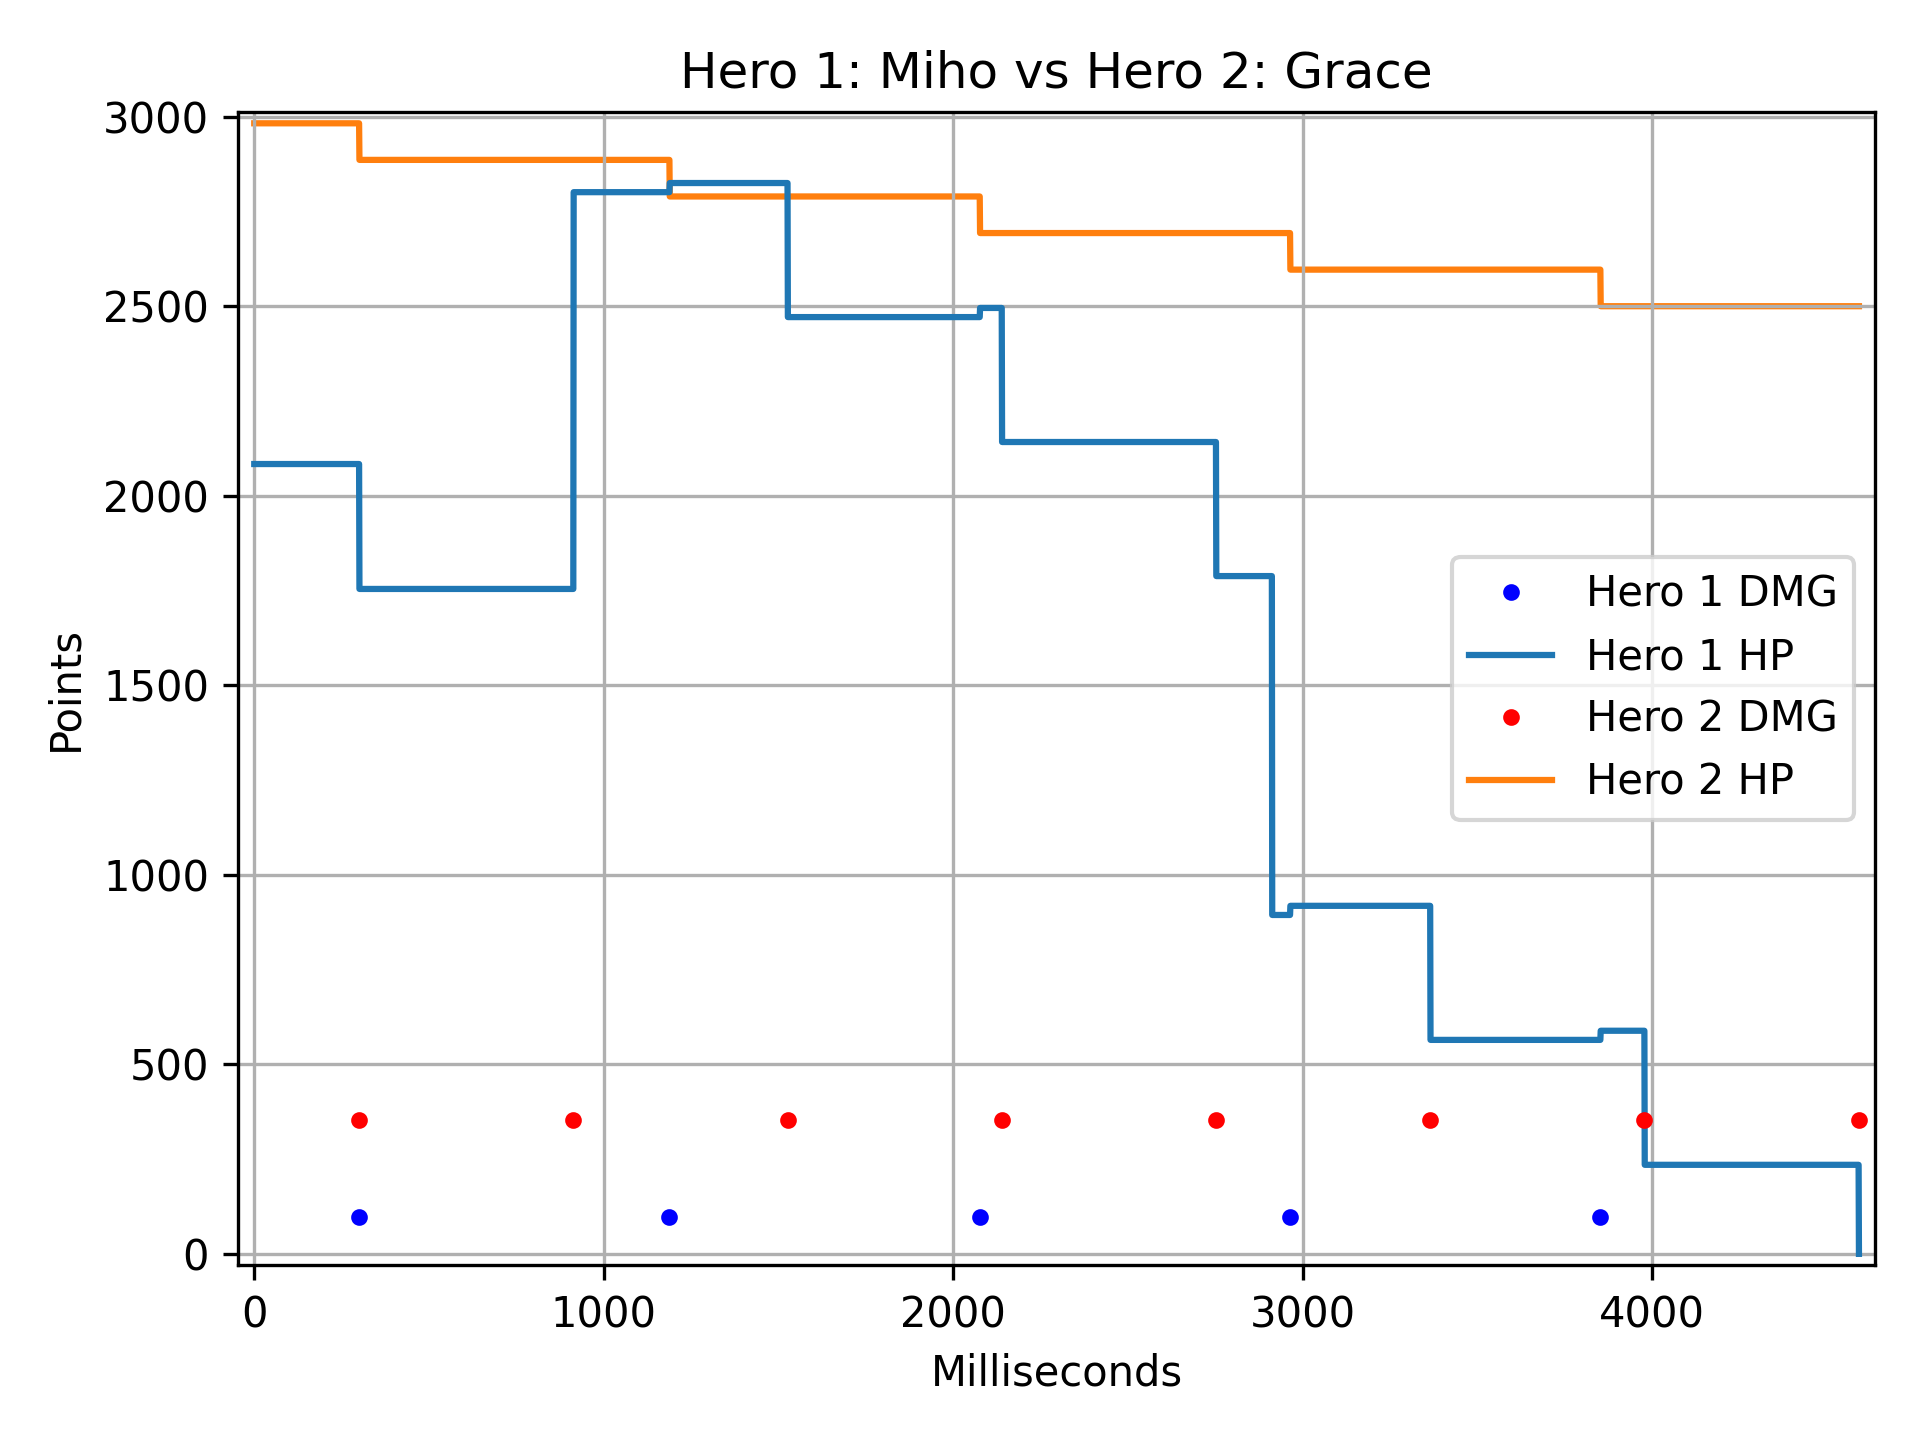
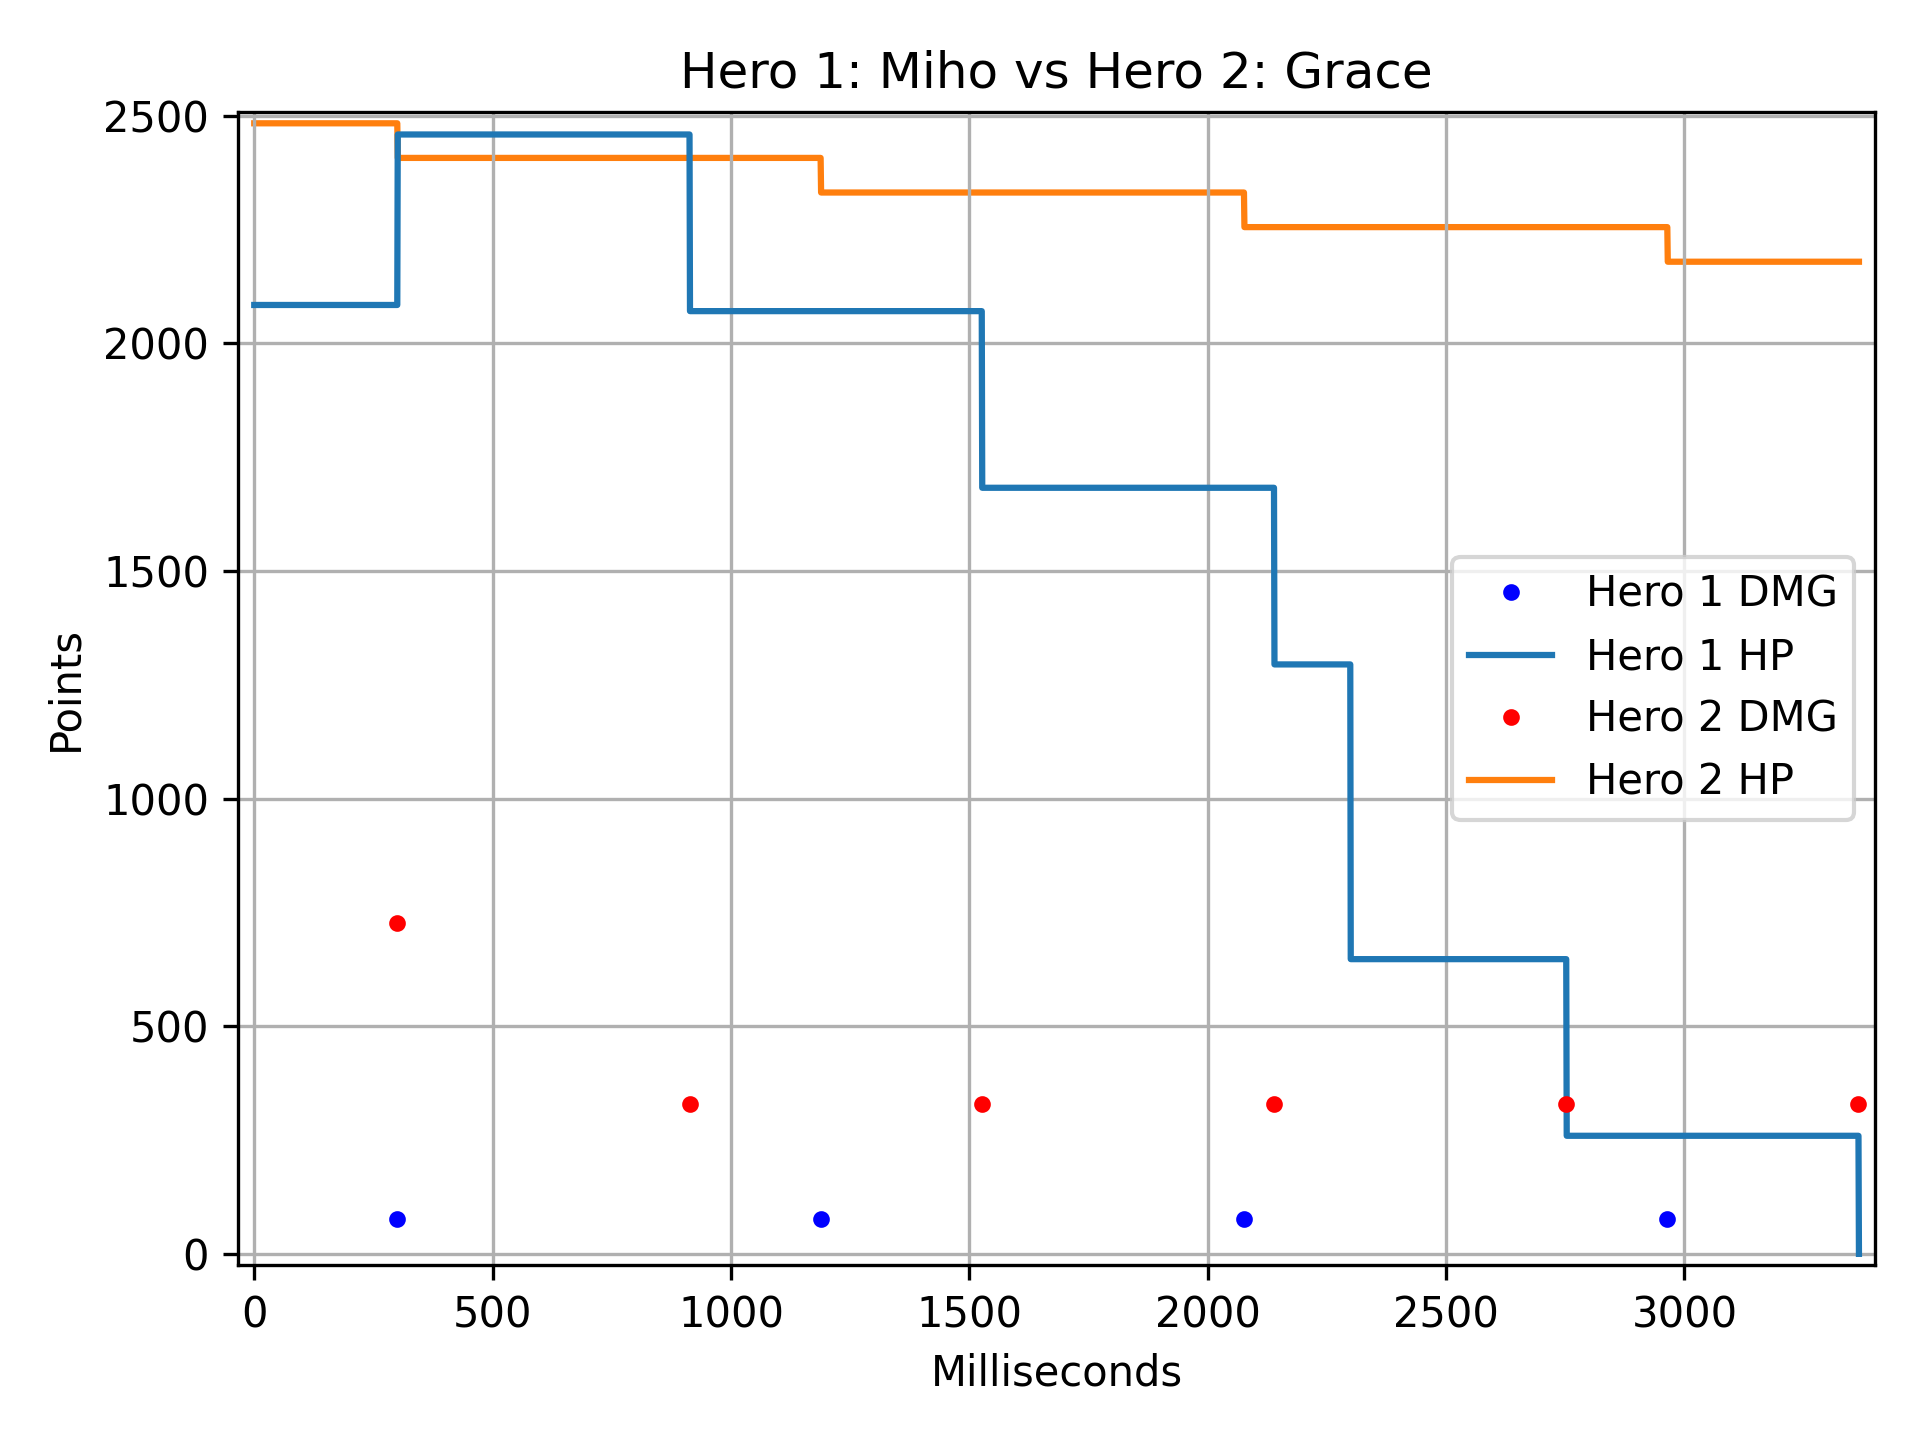
docs

diff --git a/items.py b/items.py
@@ -466,14 +466,18 @@ class MetalJacket(Item):
     def __init__(self):
         super().__init__("Metal Jacket")
         super()._set_armor(95)
-        # TODO: Passive: Reduces incoming damage from Basic Attacks by 15%.
-        self.warn("i-p", "PASSIVE EFFECT either not implemented or considered in combat. May skew results.")
+        self.warn("i-i",
+                  "unclear when the PASSIVE EFFECT is supposed to be considered/if affects true damage."
+                  " Assuming damage reduction from the passive includes true damage and is considered "
+                  "right before taking the damage. May skew results.")
+
 
     def on_damage_receive(self, hero, ack, the_attack, pre_dmg=True):
         if the_attack["with_basic"]:
             ack["true_dmg"] *= 0.85
             ack["cp_dmg"] *= 0.85
             ack["wp_dmg"] *= 0.85
+        return ack
 
 class Oakheart(Item):
     def __init__(self):

diff --git a/heroes.py b/heroes.py
@@ -135,7 +135,7 @@ class Hero:
                 continue
         # expected weapon dmg on crit
         if self.stats["crit_chance"]:
-            the_attack["wp_dmg"] *= (1 + self.stats["crit_damage"]) * min(self.stats["crit_chance"], 1)
+            the_attack["wp_dmg"] *= 1 + (self.stats["crit_damage"] * min(self.stats["crit_chance"], 1))
         return the_attack
 
     def receive_attack(self, the_attack):

diff --git a/README.md b/README.md
@@ -46,7 +46,6 @@ Set if Hero One preforms perfect stutter steps.
 #### --stutter_one
 Set if Hero Two preforms perfect stutter steps.
 
-
 ## WARN and ERROR messages
 When running this tool, there are warning and error messages that may pop up.
 The warnings are there to describe how the current implementation might affect the results.
@@ -54,8 +53,13 @@ The error messages are if there are errors in the command.
 
 Both message types provide a code and a description of what is happening as the program runs.
 
+## Note about Critical Hits
+Critical Hits are calculated in terms of expected value. This means that for 100 damage with a 50% critical chance
+and 50% critical damage, each hit is calculated as 100 * (1 + (0.5 * 0.5)) = 125 damage. This is to give
+consistent and expected results.
+
 ## Implemented Heroes
-As an argument for hero_one or hero_two, you can set the hero by typing one of these names (case insensitive)
+As an argument for hero_one or hero_two, you can set the hero by typing one of these names (case-insensitive)
 
 If it is not on this list, it is not implemented yet.
 - Amael
@@ -83,6 +87,8 @@ If it is not on this list, it is not implemented yet.
 ### Red Tree
 - SorrowBlade
 - PoisonedShiv
+  - The mortal wounds is implemented so that every second attack applies effect, while in-game, there must be two hits on
+    the same target. You can ignore this as this is a 1v1 situation.
 - SerpentsMask
 - WeaponBlade
 - BreakingPoint
@@ -118,12 +124,15 @@ If it is not on this list, it is not implemented yet.
 - LightArmor
 - LightShield
 - MetalJacket
+  - It's unclear when the passive effect is supposed to be considered/if affects true damage when calculating the damage to be taken. 
+    This tool assumes that the damage reduction from the passive includes true damage and is considered right before taking the damage.
 - Oakheart
 - Pulseweave
 - ProtectorContract
 - ReflexBlock
 - RooksDecree
 - SlumberingHusk
+  - Fortified health is treated as doubling current health for effect duration. In the graph, this shows up as a massive heal.
 - Warmail
 
 
